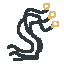
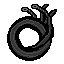
transmitter sequence

diff --git a/entities/behaviors/NPC/Transmitter.cs b/entities/behaviors/NPC/Transmitter.cs
@@ -1,0 +1,64 @@
+using System;
+
+namespace Adventure
+{
+	public class Transmitter : SpriteBehavior
+	{
+		public Transmitter (SoundFont speech = null) : base (speech) {
+		}
+
+		int currentState = 0;
+		// 0 -> empty
+		// 1 -> microwave
+		// 2 -> microwave + wire
+		// 3 -> microwave + wire + antenna
+		override public void RespondToInteraction(Character player) {
+
+			switch (this.currentState) {
+			case 0:
+				if (player.heldItem == ItemID.MICROWAVE) {
+					Inventory.RemoveCurrent ();
+					EmitSpeech ("The first step is complete...");
+					currentState++;
+					((StaticEntity)this.entity).SwitchSprite ("microwave");
+				} else {
+					EmitSpeech ("There's a weird gap in the grass here.");
+				}
+				break;
+			case 1:
+				if (player.heldItem == ItemID.STRINGS) {
+					Inventory.RemoveCurrent ();
+					EmitSpeech ("The device is almost complete...");
+					currentState++;
+					((StaticEntity)this.entity).SwitchSprite ("wire");
+				} else {
+					EmitSpeech ("I need wire. Where can I get wire?");
+				}
+				break;
+			case 2:
+				if (player.heldItem == ItemID.ANTENNA) {
+					Inventory.RemoveCurrent ();
+					EmitSpeech ("THE TIME OF AWAKENING COMETH");
+					currentState++;
+					((StaticEntity)this.entity).SwitchSprite ("antenna");
+				} else {
+					EmitSpeech ("...Antenna...");
+				}
+				break;
+			case 3:
+				EmitSpeechOption(
+					"activate the device?",
+					new  SpeechText.Option[] {
+						new SpeechText.Option("yes", ()=>{
+							AdventureGame.instance.SetEndGame();
+						}),
+						new SpeechText.Option("no",  ()=>{})
+					});
+				break;
+			}
+
+			((PlayerBehavior) player.behavior).triggeredText = this.speechReference;
+		}
+	}
+}
+

diff --git a/AdventureGame.cs b/AdventureGame.cs
@@ -442,7 +442,9 @@ namespace Adventure
 					entityBatch.DrawString (this.defaultFont, "Press 'esc' to close", new Vector2(10, 10), Color.White);
 				}
 				if (phoneGUI.Running) {
-					entityBatch.DrawString (this.defaultFont, "Press 'p' to close", new Vector2(10,0), Color.White);
+					entityBatch.DrawString (this.defaultFont, "Press 'p' to close", new Vector2 (10, 0), Color.White);
+				} else {
+					entityBatch.DrawString (this.defaultFont, "press 'p' for phone", new Vector2(10, ScreenBounds.Height - 40), Color.White);
 				}
 
 				entityBatch.End ();
@@ -711,18 +713,36 @@ namespace Adventure
 					"So soothing...",
 					"Makes me want to poop"
 				),
-				null, new Vector2(0, -120)
+				null, new Vector2(0, -150)
 			));
 
 
 			//plates
 			entities.Add (new StaticEntity (
-				null, new Vector2 (2238, 923),
+				null, new Vector2 (2239, 923),
 				new GenericItem(
 					"Everything you'd need to eat off or out of"
 				),
 				null, new Vector2(0, -120)
 			));
+
+
+			//crop circle
+			DumbSprite cropCircle = new DumbSprite(
+				"environment/crop_circle_0", new Vector2 (2649, 1181)
+			);
+			cropCircle.SortingY = -1000;
+			entities.Add (cropCircle);
+
+			StaticEntity transmitter = new StaticEntity (
+				"environment/transmitter_0", new Vector2 (2649, 1161), new Transmitter(),
+				null, null, new Dictionary<string,string> {
+					{"microwave", "environment/transmitter_1"},
+					{"wire", "environment/transmitter_2"},
+					{"antenna", "environment/transmitter_3"}
+				}
+			);
+			entities.Add (transmitter);
 
 
 

diff --git a/Room/CharacterSelect.cs b/Room/CharacterSelect.cs
@@ -153,7 +153,7 @@ namespace Adventure
 
 			entityBatch.DrawString(defaultFont, "Press Enter To Start", new Vector2(characterOffset - defaultFont.MeasureString("Press Enter To Start").X/2, 650), Color.White);
 
-			const String controlsString = "Controls:\nWASD/Arrows to move\nENTER to interact\nTAB to select options\nI to go through inventory";
+			const String controlsString = "Controls:\nWASD/Arrows to move\nENTER to interact\nTAB to select options\nI to go through inventory\nP to use phone";
 			entityBatch.DrawString (
 				defaultFont, 
 				controlsString,
